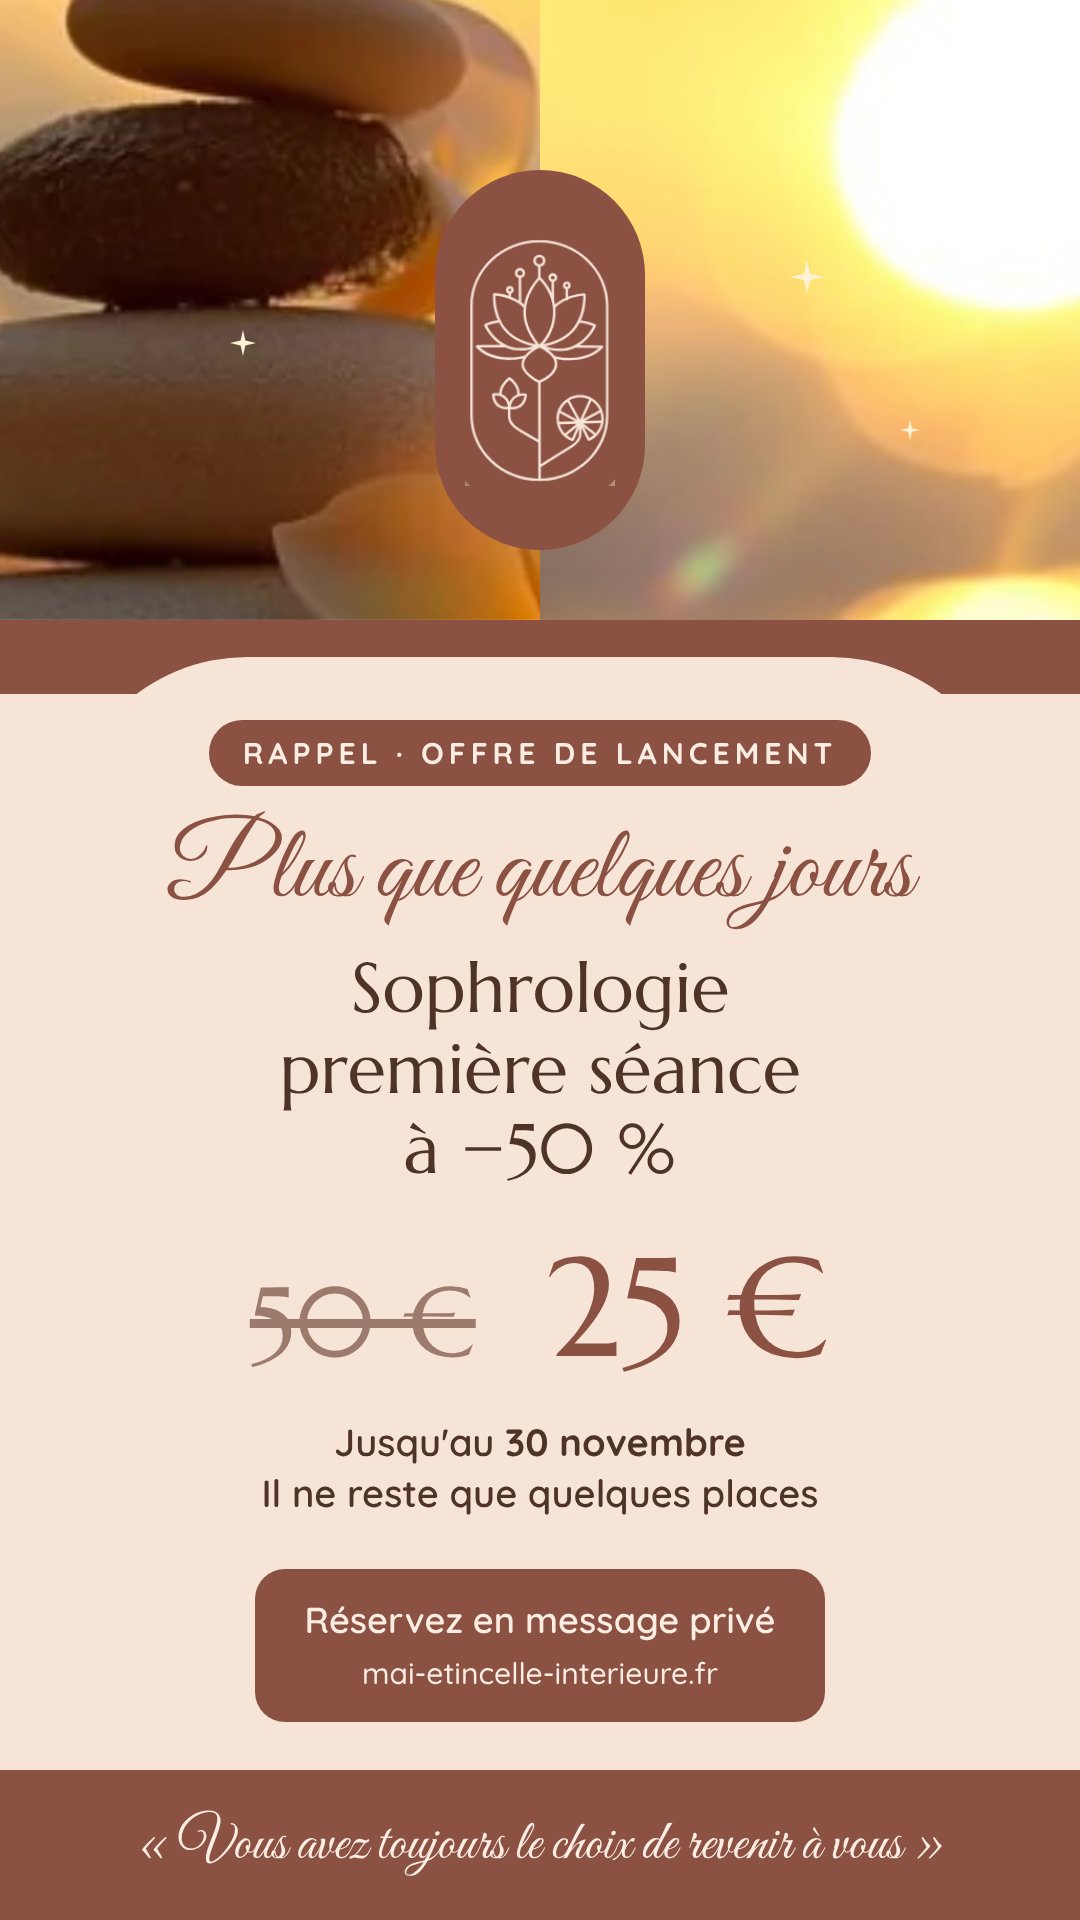
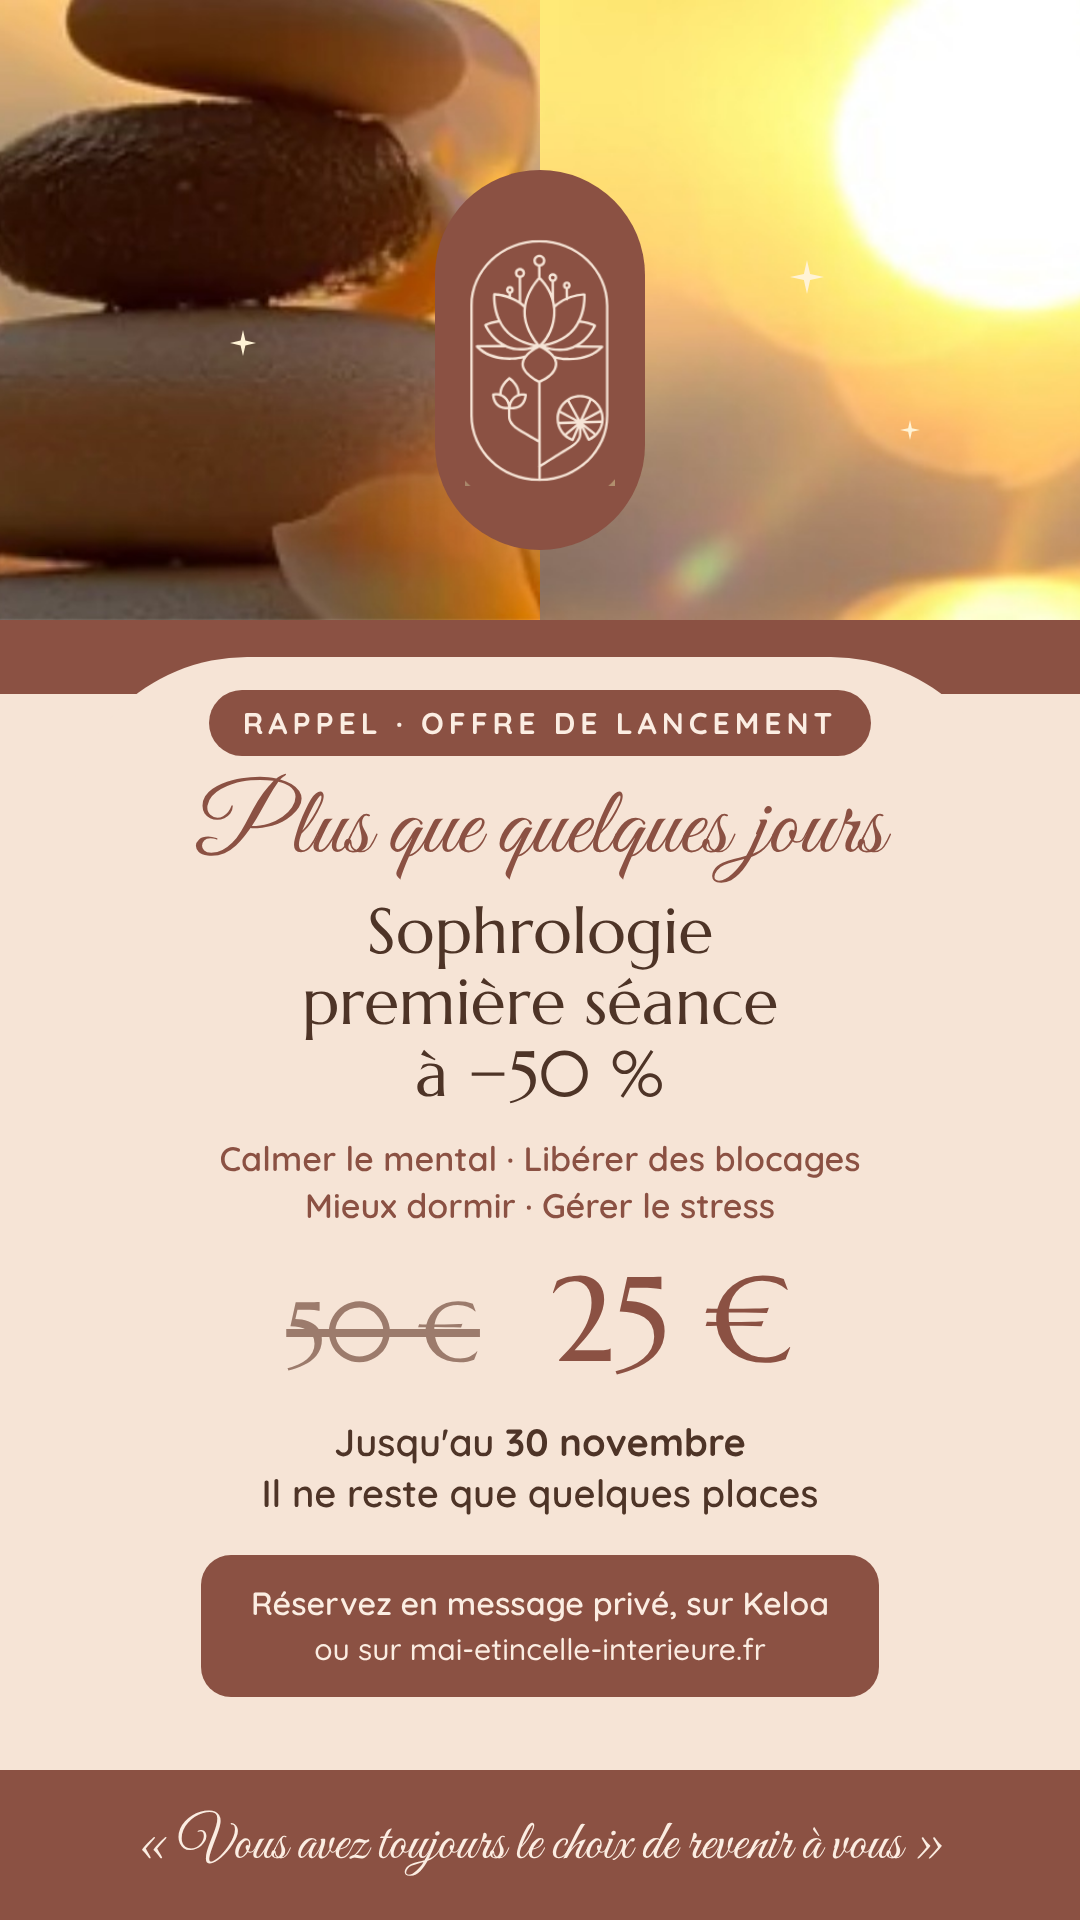
Offre de lancement sophrologie sur le site + rappel mis à jour
Claude-Session: https://claude.ai/code/session_018FK42WiZ4TzvXK9RPu7Yoq

Changed region(s): [[0.1528, 0.3438, 0.8556, 0.7188], [0.1833, 0.8125, 0.825, 0.9062]]

diff --git a/images/mail-rappel.html b/images/mail-rappel.html
@@ -1,16 +1,17 @@
 <table role="presentation" width="100%" cellpadding="0" cellspacing="0" border="0" align="center" style="width:100%;background:#F6E4D6;border-collapse:collapse;font-family:Arial,Helvetica,sans-serif;color:#573E2C">
-<tr><td style="padding:0"><a href="mailto:mai.delienne@gmail.com?subject=R%C3%A9servation%20s%C3%A9ance%20de%20sophrologie%20-%20offre%20de%20lancement"><img src="https://mai-etincelle-interieure.fr/images/mail-rappel-entete.jpg" alt="Rappel – Offre de lancement : sophrologie, première séance à −50 %" style="display:block;width:100%;height:auto;border:0"></a></td></tr>
+<tr><td style="padding:0"><a href="https://mai-etincelle-interieure.fr/#offre-sophro"><img src="https://mai-etincelle-interieure.fr/images/mail-rappel-entete.jpg" alt="Rappel – Offre de lancement : sophrologie, première séance à −50 %" style="display:block;width:100%;height:auto;border:0"></a></td></tr>
 <tr><td style="padding:30px 6% 6px;font-size:18px;line-height:1.6">
 <p style="margin:0 0 14px">Bonjour,</p>
 <p style="margin:0 0 14px">Il y a quelques semaines, je vous parlais de ma nouvelle offre de lancement en sophrologie. <b>Elle se termine le 30 novembre</b>, et il reste encore quelques places.</p>
-<p style="margin:0">Si vous ressentez le besoin de souffler, de calmer le mental ou de retrouver un meilleur sommeil, c’est le moment de vous accorder ce temps pour vous.</p>
+<p style="margin:0">Si vous ressentez le besoin de calmer le mental, de libérer des blocages ou de retrouver un meilleur sommeil, c’est le moment de vous accorder ce temps pour vous.</p>
 </td></tr>
 <tr><td style="padding:16px 6%">
 <table role="presentation" width="100%" cellpadding="0" cellspacing="0" border="0" style="border-collapse:collapse;font-size:16px;text-align:center">
 <tr>
-<td width="33%" style="padding:16px 8px;background:#FBF2E9;border:1px solid #E5CFC2"><div style="font-size:24px;color:#B8862F">❋</div><div style="font-weight:bold;color:#8B5143;margin:4px 0">Lâcher prise</div><div>Apaiser le mental</div></td>
-<td width="33%" style="padding:16px 8px;background:#FBF2E9;border:1px solid #E5CFC2"><div style="font-size:24px;color:#B8862F">☾</div><div style="font-weight:bold;color:#8B5143;margin:4px 0">Mieux dormir</div><div>Des nuits plus sereines</div></td>
-<td width="33%" style="padding:16px 8px;background:#FBF2E9;border:1px solid #E5CFC2"><div style="font-size:24px;color:#B8862F">♡</div><div style="font-weight:bold;color:#8B5143;margin:4px 0">Gérer le stress</div><div>Relâcher les tensions</div></td>
+<td width="25%" style="padding:16px 8px;background:#FBF2E9;border:1px solid #E5CFC2"><div style="font-size:24px;color:#B8862F">❋</div><div style="font-weight:bold;color:#8B5143;margin:4px 0">Calmer le mental</div><div>Apaiser les pensées</div></td>
+<td width="25%" style="padding:16px 8px;background:#FBF2E9;border:1px solid #E5CFC2"><div style="font-size:24px;color:#B8862F">✧</div><div style="font-weight:bold;color:#8B5143;margin:4px 0">Libérer des blocages</div><div>Avancer plus léger</div></td>
+<td width="25%" style="padding:16px 8px;background:#FBF2E9;border:1px solid #E5CFC2"><div style="font-size:24px;color:#B8862F">☾</div><div style="font-weight:bold;color:#8B5143;margin:4px 0">Mieux dormir</div><div>Des nuits plus sereines</div></td>
+<td width="25%" style="padding:16px 8px;background:#FBF2E9;border:1px solid #E5CFC2"><div style="font-size:24px;color:#B8862F">♡</div><div style="font-weight:bold;color:#8B5143;margin:4px 0">Gérer le stress</div><div>Relâcher les tensions</div></td>
 </tr></table>
 </td></tr>
 <tr><td style="padding:14px 6%">
@@ -23,8 +24,8 @@
 </td></tr></table>
 </td></tr>
 <tr><td align="center" style="padding:26px 6% 6px">
-<a href="mailto:mai.delienne@gmail.com?subject=R%C3%A9servation%20s%C3%A9ance%20de%20sophrologie%20-%20offre%20de%20lancement" style="display:inline-block;background:#8B5143;color:#ffffff;text-decoration:none;font-weight:bold;font-size:20px;padding:18px 44px;border-radius:30px">Je réserve ma séance</a>
-<p style="margin:14px 0 0;font-size:15px">ou découvrez mon approche sur <a href="https://mai-etincelle-interieure.fr" style="color:#8B5143">mai-etincelle-interieure.fr</a></p>
+<a href="https://mai-etincelle-interieure.fr/#offre-sophro" style="display:inline-block;background:#8B5143;color:#ffffff;text-decoration:none;font-weight:bold;font-size:20px;padding:18px 44px;border-radius:30px">Je réserve ma séance</a>
+<p style="margin:14px 0 0;font-size:16px;line-height:1.6">Réservez sur <a href="https://mai-etincelle-interieure.fr/#offre-sophro" style="color:#8B5143">mon site</a>, via Keloa, en message privé sur Facebook ou Instagram,<br>ou simplement <a href="mailto:mai.delienne@gmail.com?subject=R%C3%A9servation%20s%C3%A9ance%20de%20sophrologie%20-%20offre%20de%20lancement" style="color:#8B5143">en répondant à ce mail</a>.</p>
 </td></tr>
 <tr><td style="padding:20px 6% 6px;font-size:17px;line-height:1.6">
 <p style="margin:0">Chaque accompagnement est construit sur mesure, à votre rythme, chez vous ou à distance.</p>

diff --git a/index.html b/index.html
@@ -392,6 +392,49 @@
   </div>
 </section>
 
+<!-- ================= OFFRE DE LANCEMENT SOPHROLOGIE (se masque seule après le 30/11/2026) ================= -->
+<style>
+  #offre-sophro .offre{max-width:900px;margin:0 auto;background:var(--cream-soft);border:1px solid rgba(139,81,67,0.35);border-radius:36px;padding:40px 6vw;text-align:center;}
+  #offre-sophro .offre-badge{display:inline-block;background:var(--terracotta);color:#fff;font-size:0.72rem;font-weight:600;letter-spacing:3px;padding:7px 18px;border-radius:30px;}
+  #offre-sophro .offre h2{font-family:'Sacramento',cursive;font-weight:400;font-size:clamp(2.6rem,6vw,3.6rem);color:var(--terracotta-deep);margin:10px 0 0;line-height:1.1;}
+  #offre-sophro .offre-titre{font-family:'Playfair Display',serif;font-size:1.5rem;margin:6px 0 0;}
+  #offre-sophro .offre-bienfaits{display:flex;flex-wrap:wrap;justify-content:center;gap:10px;margin:22px 0;}
+  #offre-sophro .offre-bienfaits span{border:1px solid rgba(139,81,67,0.35);border-radius:30px;padding:7px 16px;font-size:0.85rem;color:var(--terracotta-deep);background:#fff;}
+  #offre-sophro .offre-prix{font-family:'Playfair Display',serif;color:var(--terracotta-deep);}
+  #offre-sophro .offre-prix s{font-size:1.5rem;opacity:.6;margin-right:12px;}
+  #offre-sophro .offre-prix b{font-size:3rem;}
+  #offre-sophro .offre-date{margin:6px 0 0;font-size:0.95rem;}
+  #offre-sophro .offre-boutons{display:flex;flex-wrap:wrap;justify-content:center;gap:12px;margin-top:24px;}
+  #offre-sophro .offre-boutons a{display:inline-block;background:var(--terracotta);color:#fff;padding:13px 26px;border-radius:30px;font-weight:600;font-size:0.9rem;}
+  #offre-sophro .offre-boutons a.sec{background:#fff;color:var(--terracotta-deep);border:1px solid var(--terracotta);}
+</style>
+<section id="offre-sophro">
+  <div class="offre">
+    <span class="offre-badge">OFFRE DE LANCEMENT</span>
+    <h2>Plus que quelques jours</h2>
+    <p class="offre-titre">Sophrologie : première séance à −50 %</p>
+    <div class="offre-bienfaits"><span>Calmer le mental</span><span>Libérer des blocages</span><span>Mieux dormir</span><span>Gérer le stress</span></div>
+    <div class="offre-prix"><s>50 €</s><b>25 €</b></div>
+    <p class="offre-date">Pour toute réservation <b>avant le 30 novembre</b> · Il ne reste que quelques places</p>
+    <p style="margin:14px 0 0;font-size:0.9rem;">Un accompagnement sur mesure, à votre rythme, chez vous ou à distance.</p>
+    <div class="offre-boutons">
+      <a id="offre-keloa" href="" target="_blank" rel="noopener" style="display:none">Réserver sur Keloa</a>
+      <a href="mailto:mai.delienne@gmail.com?subject=R%C3%A9servation%20s%C3%A9ance%20de%20sophrologie%20-%20offre%20de%20lancement">Réserver par mail</a>
+      <a class="sec" href="https://m.me/mailetincelleinterieure" target="_blank" rel="noopener">Message privé Facebook</a>
+      <a class="sec" href="https://ig.me/m/mai_letincelleinterieure.26" target="_blank" rel="noopener">Message privé Instagram</a>
+    </div>
+  </div>
+</section>
+<script>
+(function(){
+  var KELOA_URL = ""; // lien de réservation Keloa
+  var fin = new Date("2026-12-01T00:00:00+01:00");
+  var bloc = document.getElementById("offre-sophro");
+  if (new Date() >= fin) { bloc.style.display = "none"; return; }
+  if (KELOA_URL) { var k = document.getElementById("offre-keloa"); k.href = KELOA_URL; k.style.display = ""; }
+})();
+</script>
+
 <!-- ================= A PROPOS ================= -->
 <div class="apropos-wrap" id="apropos">
   <section>
